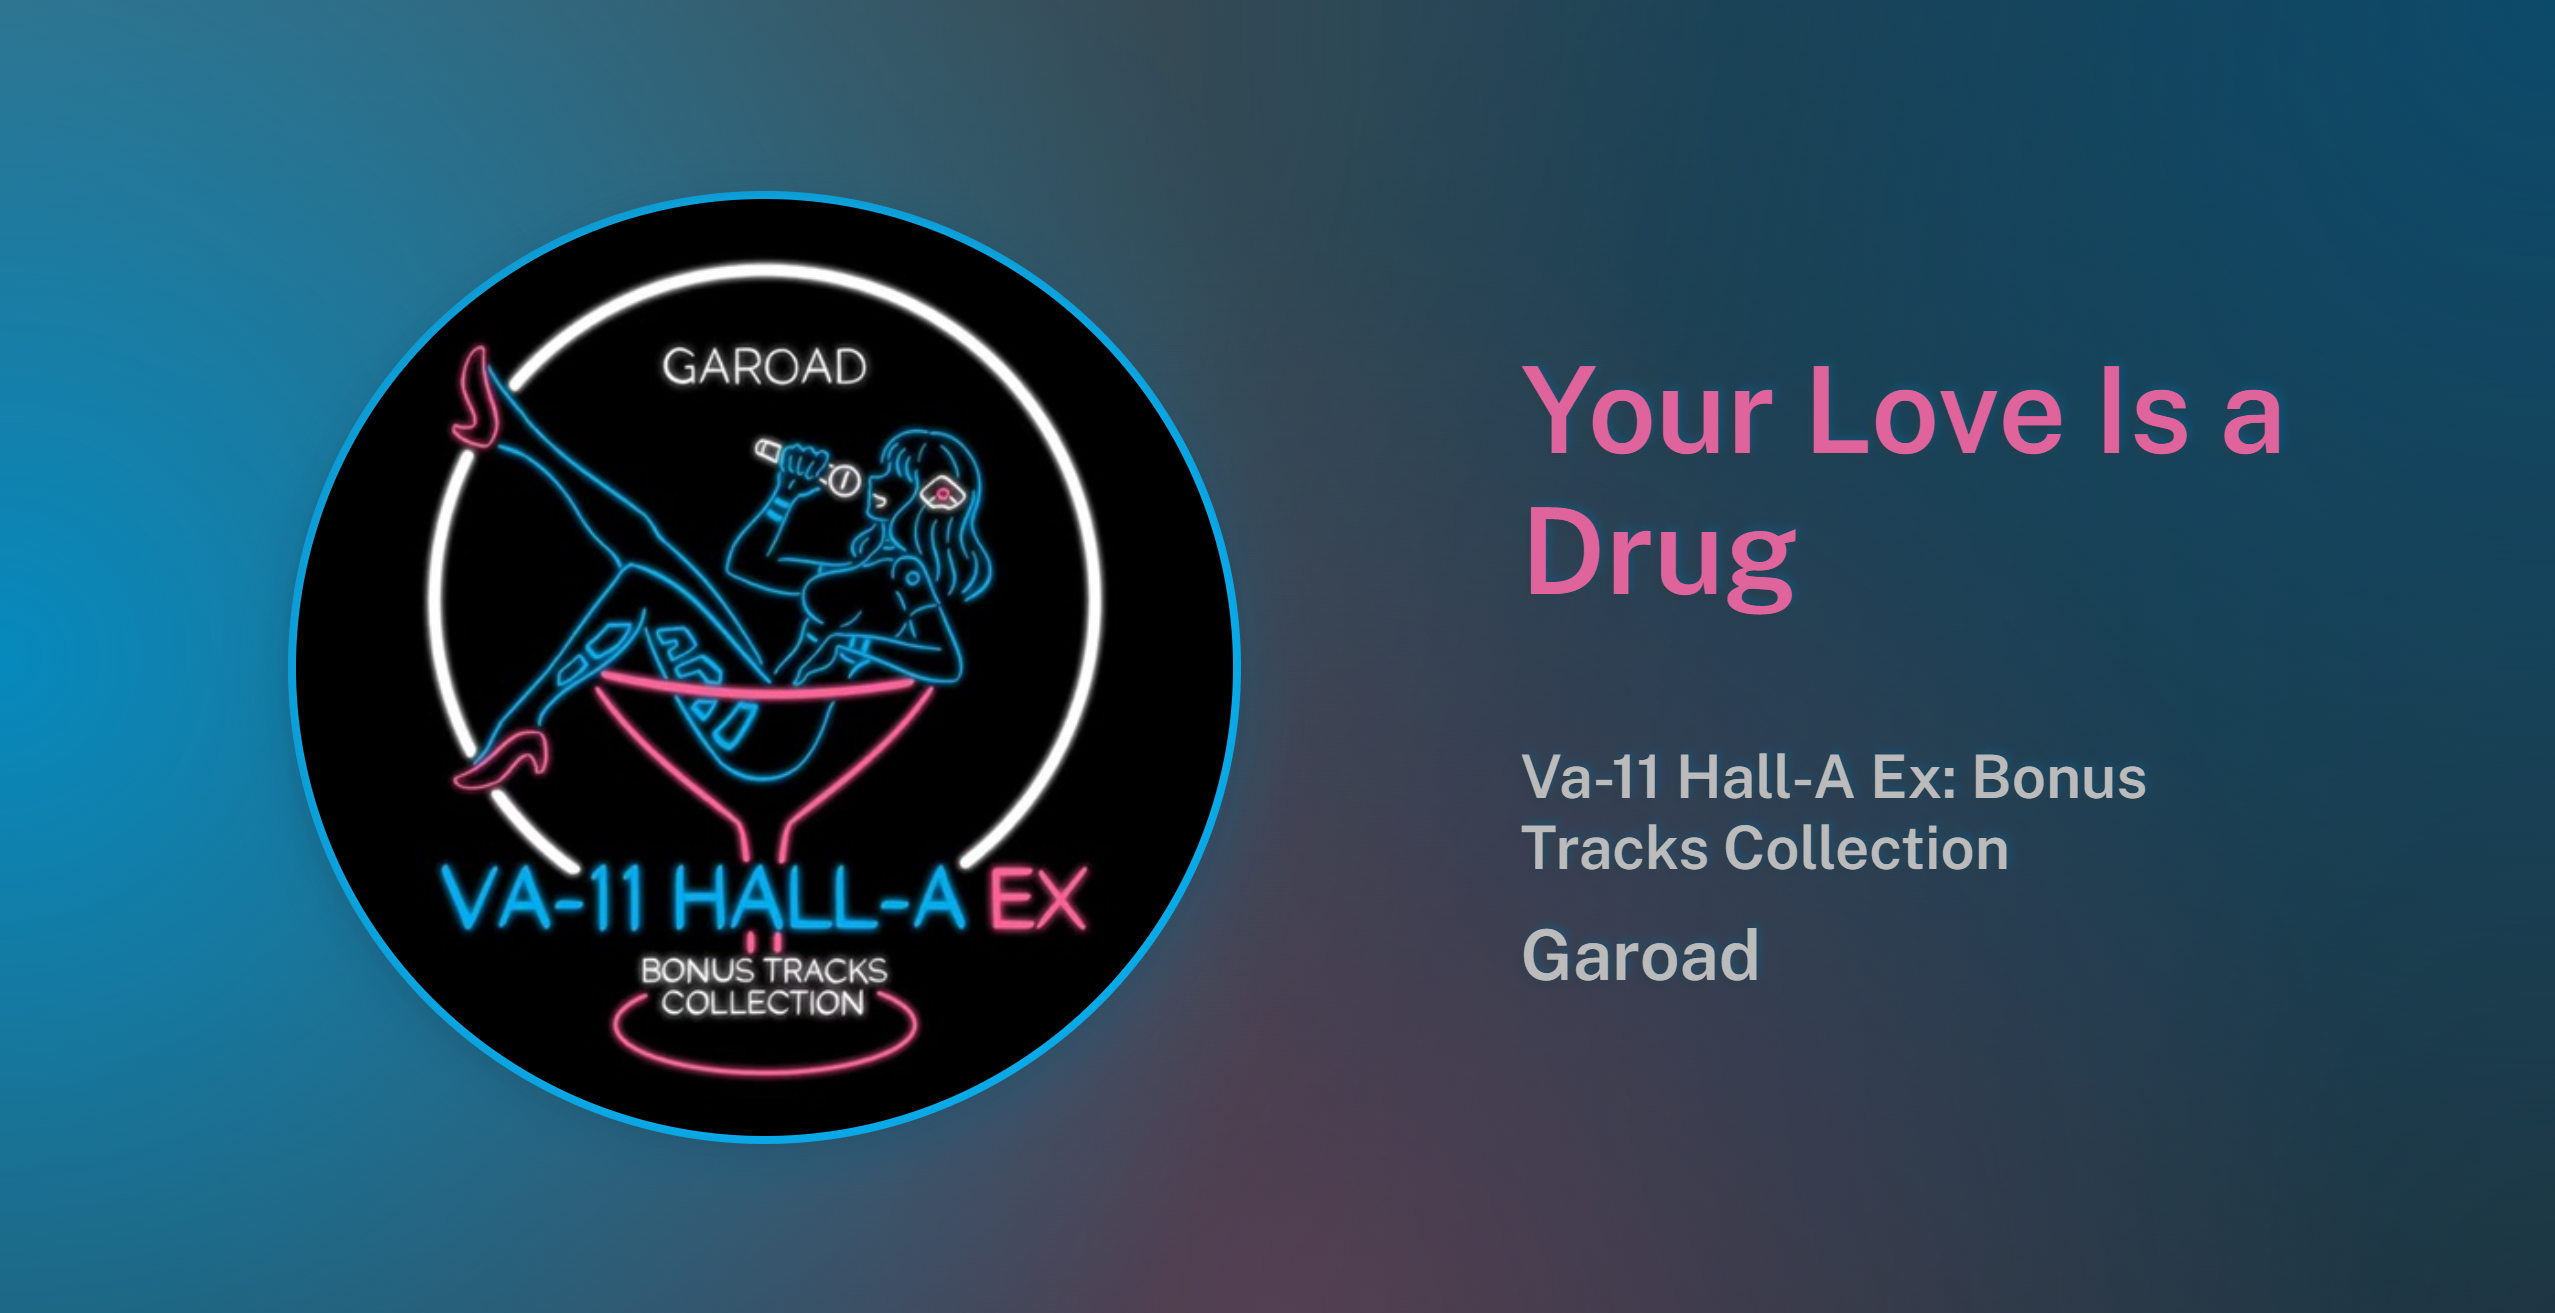
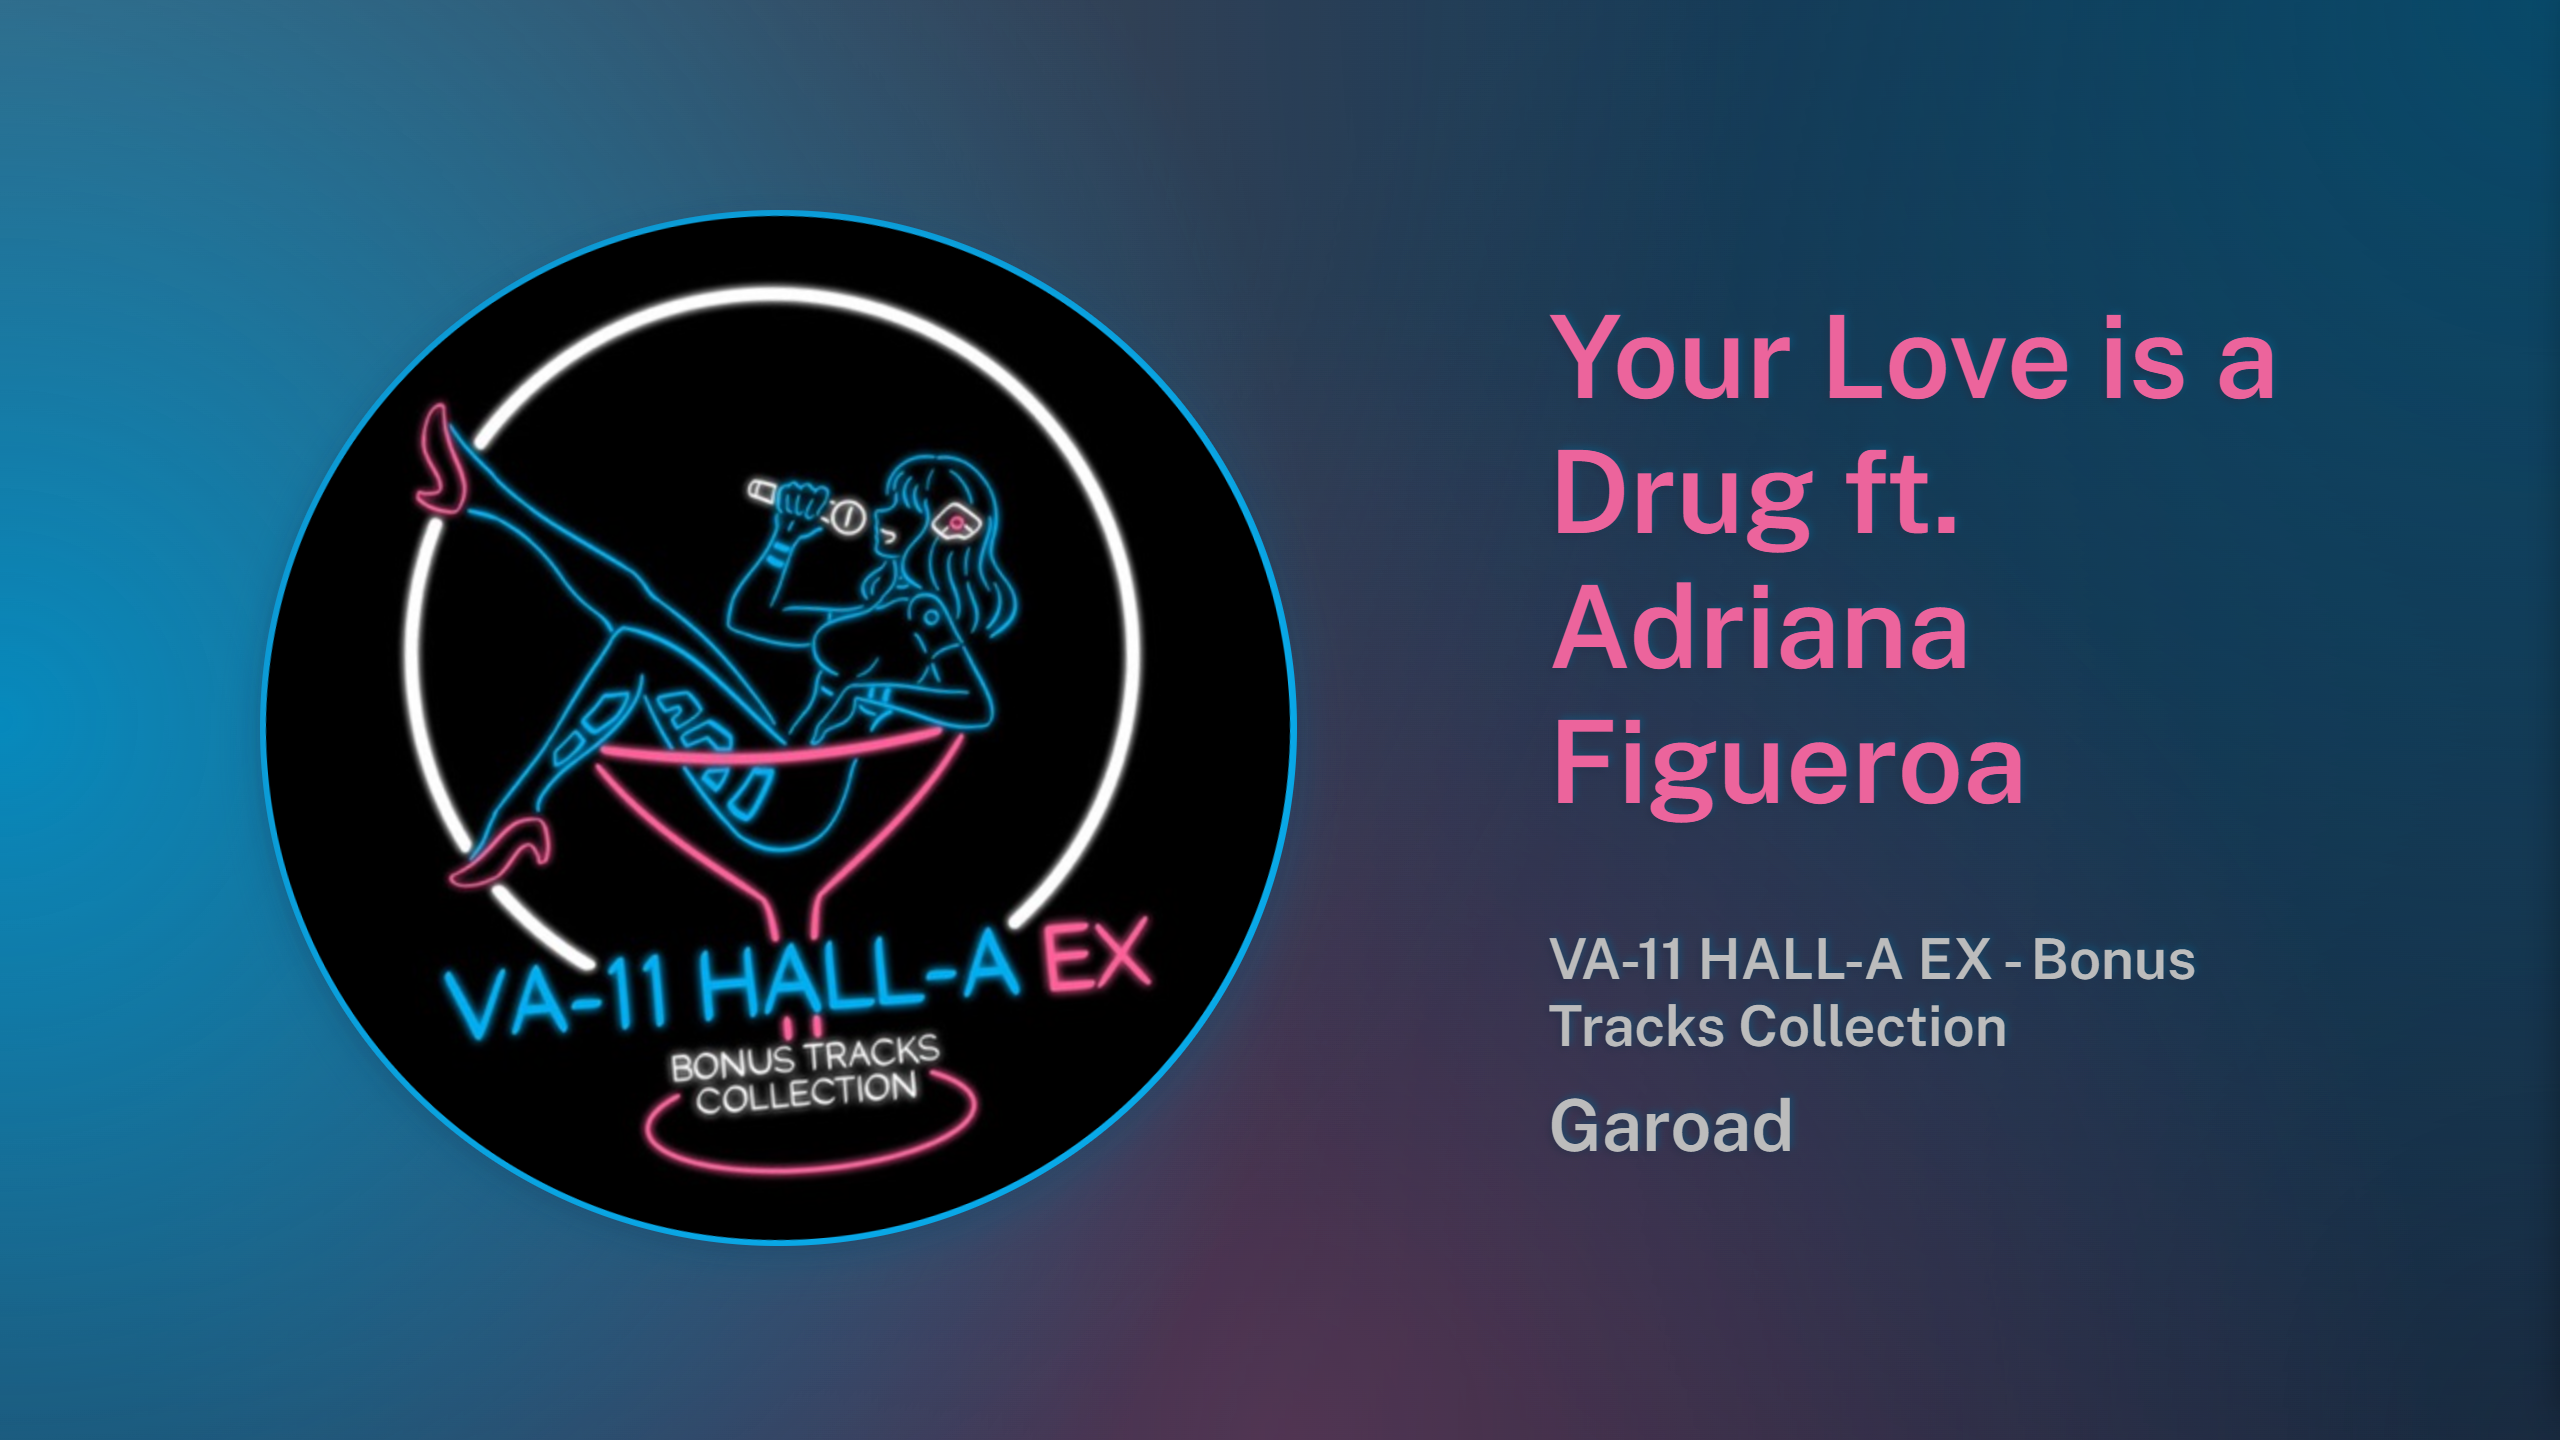
redo the readme, adjust text size while vertical, fix non-square images while vertical

diff --git a/public/styles.css b/public/styles.css
@@ -31,17 +31,21 @@
     width:  70vw !important;
     height: 70vw !important;
   }
+  .song-thumbnail {
+    height: 70vw !important;
+    width:  70vw !important;
+  }
 
   .song-title {
-    font-size: 12vw !important;
+    font-size: 8vw !important;
   }
 
   .album-title {
-    font-size: 6vw !important;
+    font-size: 4vw !important;
   }
 
   .artist {
-    font-size: 7vw !important;
+    font-size: 5vw !important;
   }
 }
 

diff --git a/readme.md b/readme.md
@@ -6,7 +6,6 @@ A nice web interface for showing the shairport-sync metadata.
   <thead>
     <tr>
       <th colspan=2>Horizontal (Static Gradient)</th>
-      <!-- <th>Vertical (BlurHash)</th> -->
     </tr>
   </thead>
   <tbody>
@@ -16,6 +15,7 @@ A nice web interface for showing the shairport-sync metadata.
       </td>
     </tr>
     <tr>
+      <th colspan=2>Horizontal (Blurred Image)</th>  
     </tr>
     <tr>
       <td colspan="2">
@@ -23,19 +23,21 @@ A nice web interface for showing the shairport-sync metadata.
       </td>
     </tr>
     <tr>
-      <th>Vertical (BlurHash)</th>
+      <th>Vertical (BlurHash, with background animation)</th>
       <th>Changing background types</th>
     </tr>
     <tr>
       <td>
-        <image alt="Addict by Silva Hound" src="img/Screen3.png" height="100%">
+        <image alt="Heaven's door by AJ Dispirito" src="https://user-images.githubusercontent.com/15912902/174042168-1ead1263-ad52-4bd3-80e1-e6fe0b09d2e6.gif" width="100%">
       </td>
       <td>
-        <image alt="Addict by Silva Hound" src="img/Screen3.png" height="100%">
+        <image alt="Addict by Silva Hound" src="https://user-images.githubusercontent.com/15912902/174038813-84c5aa6f-afd4-4e30-a4e8-75cd73053bd3.gif" width="100%">
       </td>
     </tr>
   </tbody>
 </table>
+
+<sub><sup>Don't mind the gif compression</sup></sub>
 
 ## What did I use?
 
@@ -64,37 +66,41 @@ $ npm install
 $ npm start
 ```
 
+## Features
+### Playback
+Using the shairport-sync-reader you get track title, album, artist and an image. There's a whole lot more metadata available so you can easily add your own favorite info, but I didn't need that, so it's not used.
+### Responsiveness
+Everything is written to fit many screen sizes, scales and both horizontal and vertical orientations. Now there are no hardcoded pixel sizes (maybe apart from `blur(70px)`).  
+The current `@media` query might not fit your needs though, but you can easily change it.
+### Backgrounds
+Currently 3 types of backgrounds are supported:
+* Blurred Image - the same image as on the cover, but blurred
+* Static Gradient - gradients generated from the color palette
+* BlurHash - animated gradient-like image using BlurHash
+
+They all have their pros and cons, but you can decide which you like the most by clicking on the image to toggle between them (current selection is saved to local storage so you don't have to redo this every time).  
+Imo the text is most readable on the Static Gradient, but BlurHash almost mimics Apple Music's fancy moving blur.  
+Also both Static Gradient and BlurHash have some filters applied like `saturation(1.5)` and `brightness(0.8)`. You can ofc adjust them to your liking.
+
 ## Known issues
 
 -   Sometimes, in very specific cases, the palette will be undefined and the app will crash. I will somehow handle this case in the future, but for now I recommend running it with a utility like [forever](https://www.npmjs.com/package/forever).
     -   I have to get to the bottom of this though. Goodbye Moonmen on Apple Music always triggers the crash. Perhaps it's jpg instead of png?
--   BlurHash will not properly blur the image once it's emitted, works only once during startup or if manually changed. Not sure here. Will debug it.
 
-## Backgrounds
-### Styles
-As of now I'm playing with different styles of background. Now, there are 3 styles:
-* Blurred Image
-* Static Gradient based off album cover image palette
-* Moving Gradient generated with BlurHash
+## What's next?
+* Resize text if too big to fit
+* Small and quick notification what background is selected on change (since in some cases they are indistinguishable)
+* Stopping the spinning animation once paused, and resume when played
+* Merging in [Spotify support](https://github.com/JaroslawPokropinski/ShairportGUI) (without Airplay) by [JaroslawPokropinski](https://github.com/JaroslawPokropinski).
+  * Note: Spotify works just fine if playing via Airplay. This fork brings in Spotify API into the play.
+* Representing progress via image border (think rounded progress bar)
+* Support for WS2812B LED strips (unsure if via this project, or a seperate one)
+* HomeKit lights support (but super far into the future as I don't even own a single RGB lightbulb)
 
-Default is Static Gradient but you can change the currently used type by **clicking the album cover** (currently used type is saved in local storage).
-
-### Pros and Cons, objectively
-* Blurred image will make text illegible on many backgrounds, unless you want to make the white-on-black impact meme font your default.
-* Gradient based off the palette has to wait for the palette to be sent, but makes the text readable from distance in 99% cases
-* BlurHash is fast, but not on super-low-end systems like Pi Zero (chromium just hangs). Also makes moving the blur Apple Music style easier
-
-### Proc and Cons, imo
-* Blurred image will look... wierd to say the least on images with large text (think NCS covers)
-* Gradient looks nice and all, but could've be done cleverer. Making it dynamic and moving around would require some tinkering or layering of divs so I'm thinking of a better approach.
-* BlurHash is fast, is nice, but it's designed for thumbnail placeholders. Sometimes it will get you a great background, other times it will look bright even for pitch-black covers. Also it's client side so my Pi Zero just refuses to run the webpage.
-* 
 ## Notes
 
 This project was build with Raspberry Pi Zero W in mind. But is no longer. I decided that it's too much for a little poor Pi Zero to handle both a server and Chromium so if you want to run it on Pi just disable animations and blurHash.
 
-Also, the code probably could've been written more cleanly and overall better. Considering this project is still in progress some things may change for the better. Or worse if I become a feature creep.
+Also, the code probably could've been written more cleanly and overall better. Considering this project is still in progress some things may change for the better. Or worse if I become a feature creep (looking at the roadmap, yeah).
 
-~~And yes, I know, move the css and js outside. I know, I tried, and I'm too lazy.~~ Goddamit Jarek
-
-As for todo's, I guess a tiny notification what background mode is selected, as in some cases they might be indistinguishable from each other.
+~~And yes, I know, move the css and js outside. I know, I tried, and I'm too lazy.~~ Goddamit Jarek. Thanks though!
